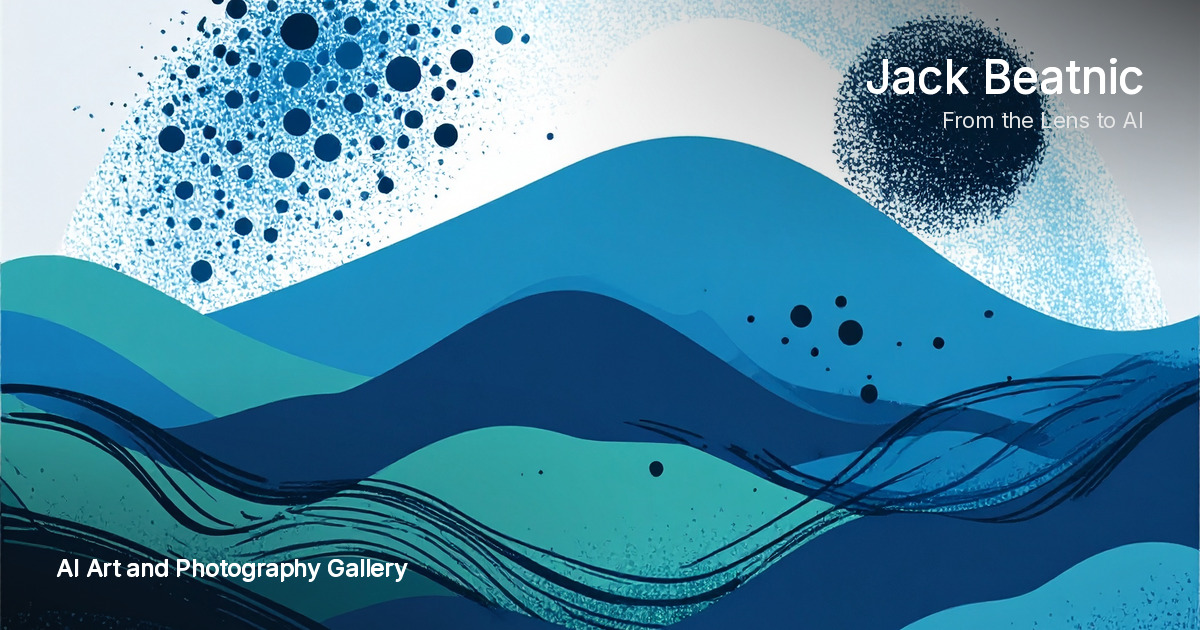
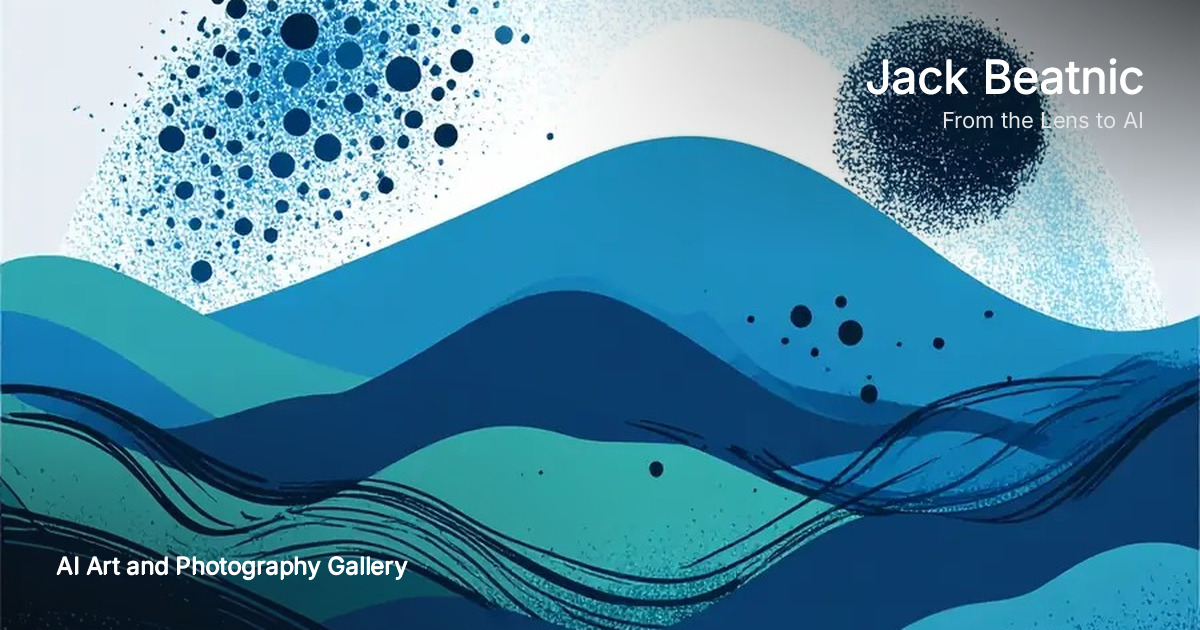
Lock site hero to assets/hero-bg.jpg (NS Avalanche #1)
Stop rotating homepage hero / og-preview with gallery-front promo thumbs from jbg-present.

diff --git a/index.html b/index.html
@@ -21,7 +21,7 @@
     <meta property="og:url" content="https://jackbeatnic.github.io/">
     <meta property="og:title" content="Jack Beatnic — AI Art and Photography Gallery">
     <meta property="og:description" content="From the lens to AI — photography, memory and imagination. Nature Stories on Avalanche + primary mint Nature Stories SE on Sui (TradePort). NFTs across Avalanche, Polygon, Base and Sui.">
-    <meta property="og:image" content="https://jackbeatnic.github.io/assets/og-preview.jpg?v=202609190040">
+    <meta property="og:image" content="https://jackbeatnic.github.io/assets/og-preview.jpg?v=202609212247">
     <meta property="og:image:width" content="1200">
     <meta property="og:image:height" content="630">
     <meta property="og:image:alt" content="Jack Beatnic Gallery — AI art and photography">
@@ -30,7 +30,7 @@
     <meta name="twitter:creator" content="@JackBeatnicAI">
     <meta name="twitter:title" content="Jack Beatnic — AI Art and Photography Gallery">
     <meta name="twitter:description" content="From the lens to AI. Photography meets generative art — Nature Stories, landscapes, collages and more.">
-    <meta name="twitter:image" content="https://jackbeatnic.github.io/assets/og-preview.jpg?v=202609190040">
+    <meta name="twitter:image" content="https://jackbeatnic.github.io/assets/og-preview.jpg?v=202609212247">
     <meta name="twitter:image:alt" content="Jack Beatnic Gallery preview">
     <script type="application/ld+json">
     {

diff --git a/js/gallery.js b/js/gallery.js
@@ -1418,7 +1418,18 @@ const Gallery = (() => {
 
         const hero = document.querySelector('.hero');
         if (imgEl) {
-            if (featured?.image_url) {
+            // Locked site hero (collection_info.hero_image) — never rotate with
+            // gallery front / promo NFT thumbs from jbg-present.
+            const lockedHero = (info.hero_image || info.hero_bg || '').trim();
+            if (lockedHero) {
+                const abs = /^https?:\/\//i.test(lockedHero)
+                    ? lockedHero
+                    : new URL(lockedHero, window.location.href).href;
+                imgEl.src = abs;
+                imgEl.alt = title;
+                imgEl.hidden = false;
+                hero?.classList.remove('hero--text-only');
+            } else if (featured?.image_url) {
                 ImageProxy.bindFallback(
                     imgEl,
                     ImageProxy.displayCandidates(

diff --git a/generuj_og_preview.py b/generuj_og_preview.py
@@ -495,18 +495,32 @@ def draw_site_brand_overlay(
     return canvas
 
 
-def generate_site_og(data: dict, output: Path = SITE_OG_PATH) -> Path:
+def _load_site_hero_bg(data: dict) -> tuple[Image.Image, str]:
+    """Locked hero_image wins — never rotate with gallery front / jbg-present promo."""
+    info = data.get("collection_info") or {}
+    locked = (info.get("hero_image") or info.get("hero_bg") or "").strip()
+    if locked:
+        if locked.startswith(("http://", "https://")):
+            return fetch_image(locked), locked
+        path = ROOT / locked
+        if path.is_file():
+            return Image.open(path).convert("RGB"), str(path)
+        raise SystemExit(f"gallery.json hero_image missing file: {path}")
     nfts = data.get("nfts") or []
     if not nfts:
-        raise SystemExit("gallery.json: brak NFT do tła strony")
+        raise SystemExit("gallery.json: brak NFT do tła strony (i brak hero_image)")
+    label = nfts[0].get("name", "—")
+    return fetch_image(nfts[0]["image_url"]), f"nfts[0]={label}"
 
+
+def generate_site_og(data: dict, output: Path = SITE_OG_PATH) -> Path:
     info = data["collection_info"]
     title = og_plain_text(info.get("hero_title") or info.get("artist") or SITE_BRAND_TITLE)
     tagline = og_plain_text(info.get("hero_tagline") or SITE_BRAND_TAGLINE)
     gallery_label = og_plain_text(SITE_GALLERY_LABEL)
 
-    print(f"[site] Tło: {nfts[0].get('name', '—')}")
-    bg = fetch_image(nfts[0]["image_url"])
+    bg, src = _load_site_hero_bg(data)
+    print(f"[site] Tło (locked): {src}")
     canvas = draw_site_brand_overlay(
         cover_crop(bg, WIDTH, HEIGHT, focus_y=0.4),
         title,
